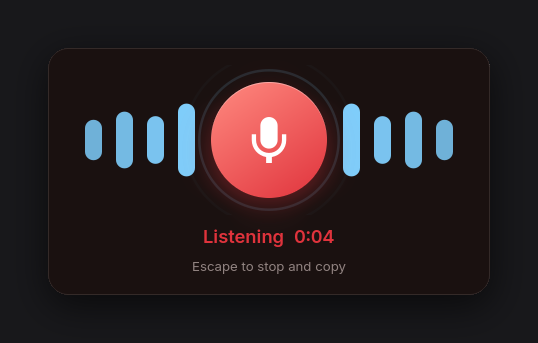
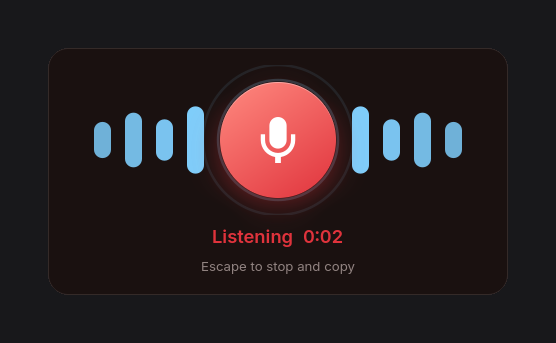
Drop the quick panel's own shadow
The panel drew a box-shadow and carried a 20px transparent margin purely to
give that shadow somewhere to fall. Removing both leaves the card as the whole
surface, which shrinks it from 482x287 to 460x247 and lets the compositor
decide whether a floating surface gets a shadow — as it already does for every
other window.

Screenshot regenerated to match, and without a drawn-on shadow of its own.

diff --git a/src/style.css b/src/style.css
@@ -106,17 +106,16 @@ button.circular.delete:hover {
 }
 
 /* Quick capture: a floating panel on the overlay layer, so it draws its own
-   card. The window itself is transparent and the margin leaves room for the
-   shadow to fall outside the card. */
+   card. The window itself is transparent; the card carries no shadow of its
+   own, leaving that to the compositor, and takes the full surface so a
+   compositor shadow hugs the card rather than an invisible gutter. */
 window.quick {
   background-color: transparent;
 }
 
 window.quick .quick-card {
-  margin: 20px;
   padding: 16px 20px 20px 20px;
   border-radius: 20px;
   background-color: @window_bg_color;
   border: 1px solid alpha(currentColor, 0.12);
-  box-shadow: 0 18px 50px rgba(0, 0, 0, 0.5);
 }
